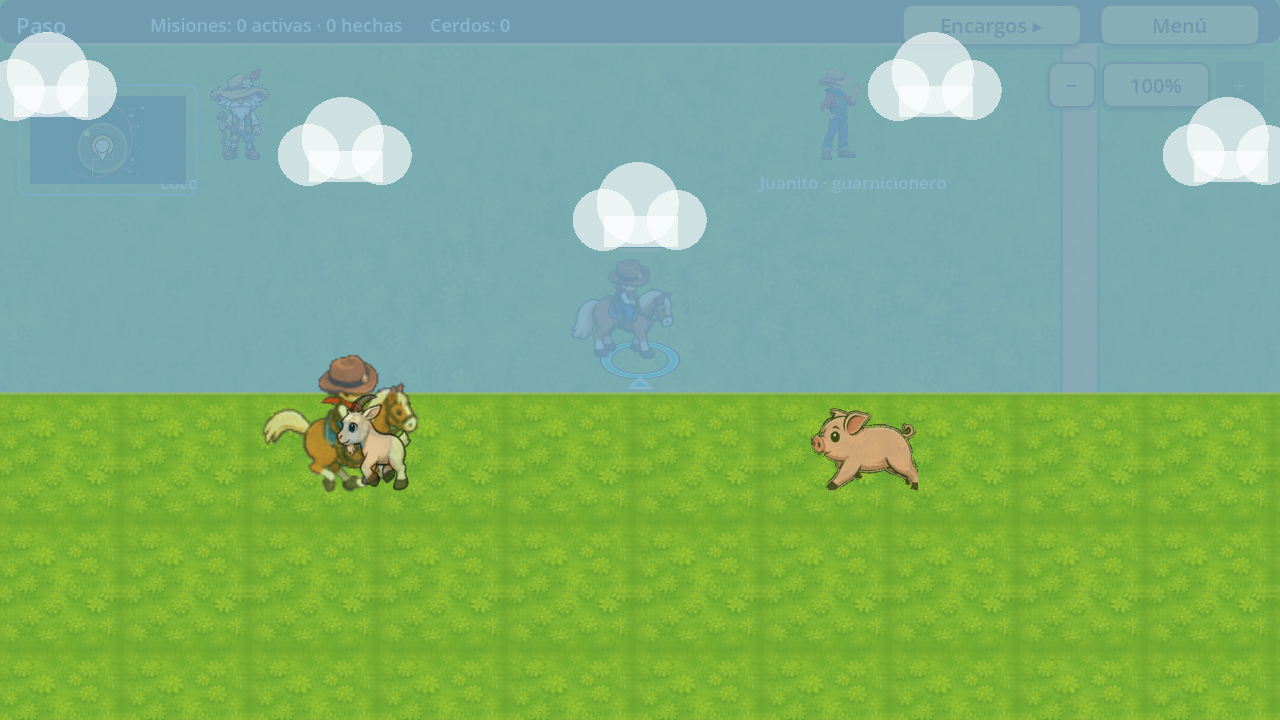
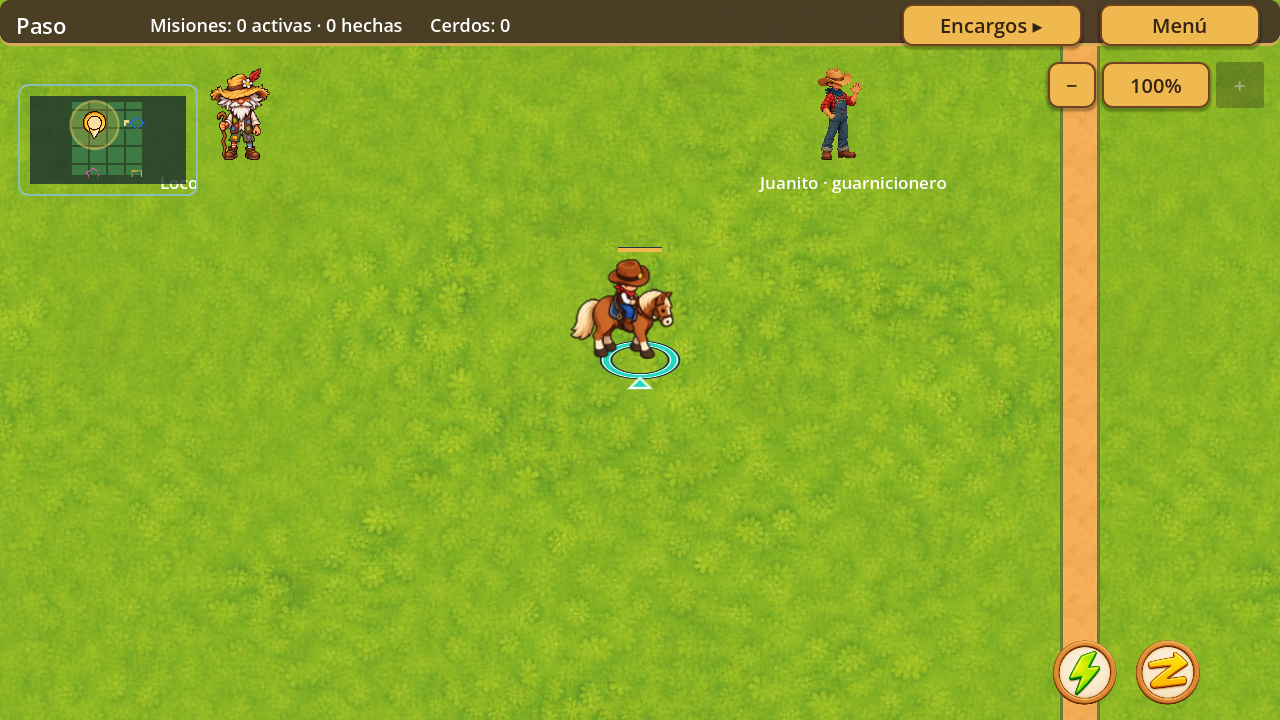
Document candidate spurs for Juanito and refresh camera comparison capture

diff --git a/docs/IDEAS_FUTURAS.md b/docs/IDEAS_FUTURAS.md
@@ -105,10 +105,23 @@ La fusta básica y mejorada ya figuran en el catálogo candidato con 1.000/2.000
 | Alforjas | 500 | 1.000 | Añade 2 -> 4 huecos a un futuro inventario de recolección. Bloqueadas hasta que exista un inventario con límite definido. |
 | Sombrero y manta de montura | 300 cada uno | 600 por variante elaborada | Solo apariencia, sin ventaja de juego. Permite gastar puntos sin alterar el equilibrio. |
 
-Se evitan espuelas con ventaja de velocidad para no duplicar la fusta ni premiar un uso agresivo. El equipo no concede Serenidad genética ni sustituye la crianza.
+Las espuelas se añaden por petición posterior de Antonio (21:28), con impulso breve y coste de resistencia, según la propuesta siguiente. El equipo no concede Serenidad genética ni sustituye la crianza.
 
 Reglas propuestas: un objeto por ranura, sin apilar copias; compra única que después se equipa sin pagar; mejora requiere la versión básica; precio total y diferencia de efecto visibles antes de confirmar; sin dinero real, desgaste ni reparaciones periódicas. Las reducciones se limitan al 10% por efecto y no se suman entre objetos del mismo efecto. Los objetos ya obtenidos se conservan, sin recomprarlos al trasladar la tienda a Juanito. La fusta no debe retirar un regate ya desbloqueado.
 
 Primera entrega sugerida si Antonio da su OK: Juanito con fusta, montura, riendas y estribos; cosméticos después, alforjas cuando exista inventario. Los precios y porcentajes son valores de prueba pendientes de aprobar y ajustar jugando, no compromisos de implementación.
 
 Fuentes: WhatsApp 16nov 21:18 "El guarnicionero te puede ayudar a crear mejores equipos como la fusta" (`wamid.HBgLMzQ2MDU5NDg3NzkVAgASGCBBQzMwNDc4OTdGRUQ3NjkxNzFCNzlGRTZBNDI3QzIzNwA=`) y 21:19 "Y añade otros equipamientos como la fusta" (`wamid.HBgLMzQ2MDU5NDg3NzkVAgASGCBBQ0FEQjdFOEU5MTU2MTMwQzBFRTdCMUY2RTZCNjJFRQA=`). Para este bloque se mantiene revisión previa de la economía.
+
+
+### Espuelas: impulso breve, no velocidad permanente (21:28)
+
+Antonio pregunta "Espuelas?" (`wamid.HBgLMzQ2MDU5NDg3NzkVAgASGCBBQzkxNkNFOUQzMDBGQzIwNUVFODFFNjFBOThFNkM5MQA=`). Se incorporan a la propuesta, sin implementarlas ni cobrarlas.
+
+- Fabricación candidata: **900 puntos**. Impulso de **+10% de velocidad durante 1 segundo**, recarga de **8 segundos** y coste de **15 puntos porcentuales de resistencia máxima** por uso.
+- Mejora candidata: **1.800 puntos adicionales**. Mantiene +10%, dura **1,3 segundos**, recarga **7 segundos**, mismo coste de resistencia. Sin aumentar la velocidad ordinaria fuera del impulso.
+- Solo al cabalgar voluntariamente: no se activa sin resistencia suficiente, con el caballo agotado, aturdido, saltando o dibujando/ejecutando un regate. No recarga el regate ni se suma al sprint u otros impulsos; prevalece una única velocidad temporal.
+- Un botón explícito mostraría recarga y coste antes de usar; no añadir otro gesto al joystick. Animación breve de señal al caballo, sin golpe ni pérdida de vida.
+- Diferencia clara: fusta amplía el trazo de regate; espuelas dan un arranque corto a cambio de energía. Probar primero fuera de carreras competitivas y ajustar equilibrio antes de llevarlo a todos los modos.
+
+Todos los valores son candidatos para su OK. La APK 2.7.173 no contiene estas mejoras ni una economía nueva.

diff --git a/docs/RELEASE_2_7_173.md b/docs/RELEASE_2_7_173.md
@@ -37,6 +37,8 @@ No se da por corregido el atasco tras sesiones largas ni el rendimiento de Rodeo
 
 ## Idea de Juanito, pendiente de OK
 
-`docs/IDEAS_FUTURAS.md` recoge al guarnicionero como fabricante de fusta y otras piezas: montura, riendas, estribos, herraduras, cosméticos y alforjas futuras. Incluye precios y efectos candidatos para revisar. No se implementa equipo, puntos ni economía en esta APK.
+`docs/IDEAS_FUTURAS.md` recoge al guarnicionero como fabricante de fusta y otras piezas: montura, riendas, estribos, herraduras, espuelas con impulso breve y coste de resistencia, cosméticos y alforjas futuras. Incluye precios y efectos candidatos para revisar. No se implementa equipo, puntos ni economía en esta APK.
 
 Capturas y mediciones: `docs/review173`. Resumen técnico: `QA_2_7_173.json`.
+
+Revisión documental posterior a la APK: se añaden las espuelas a la propuesta de Juanito y se sustituye una captura tomada durante la transición por la vista 100% limpia. La APK no cambia.
